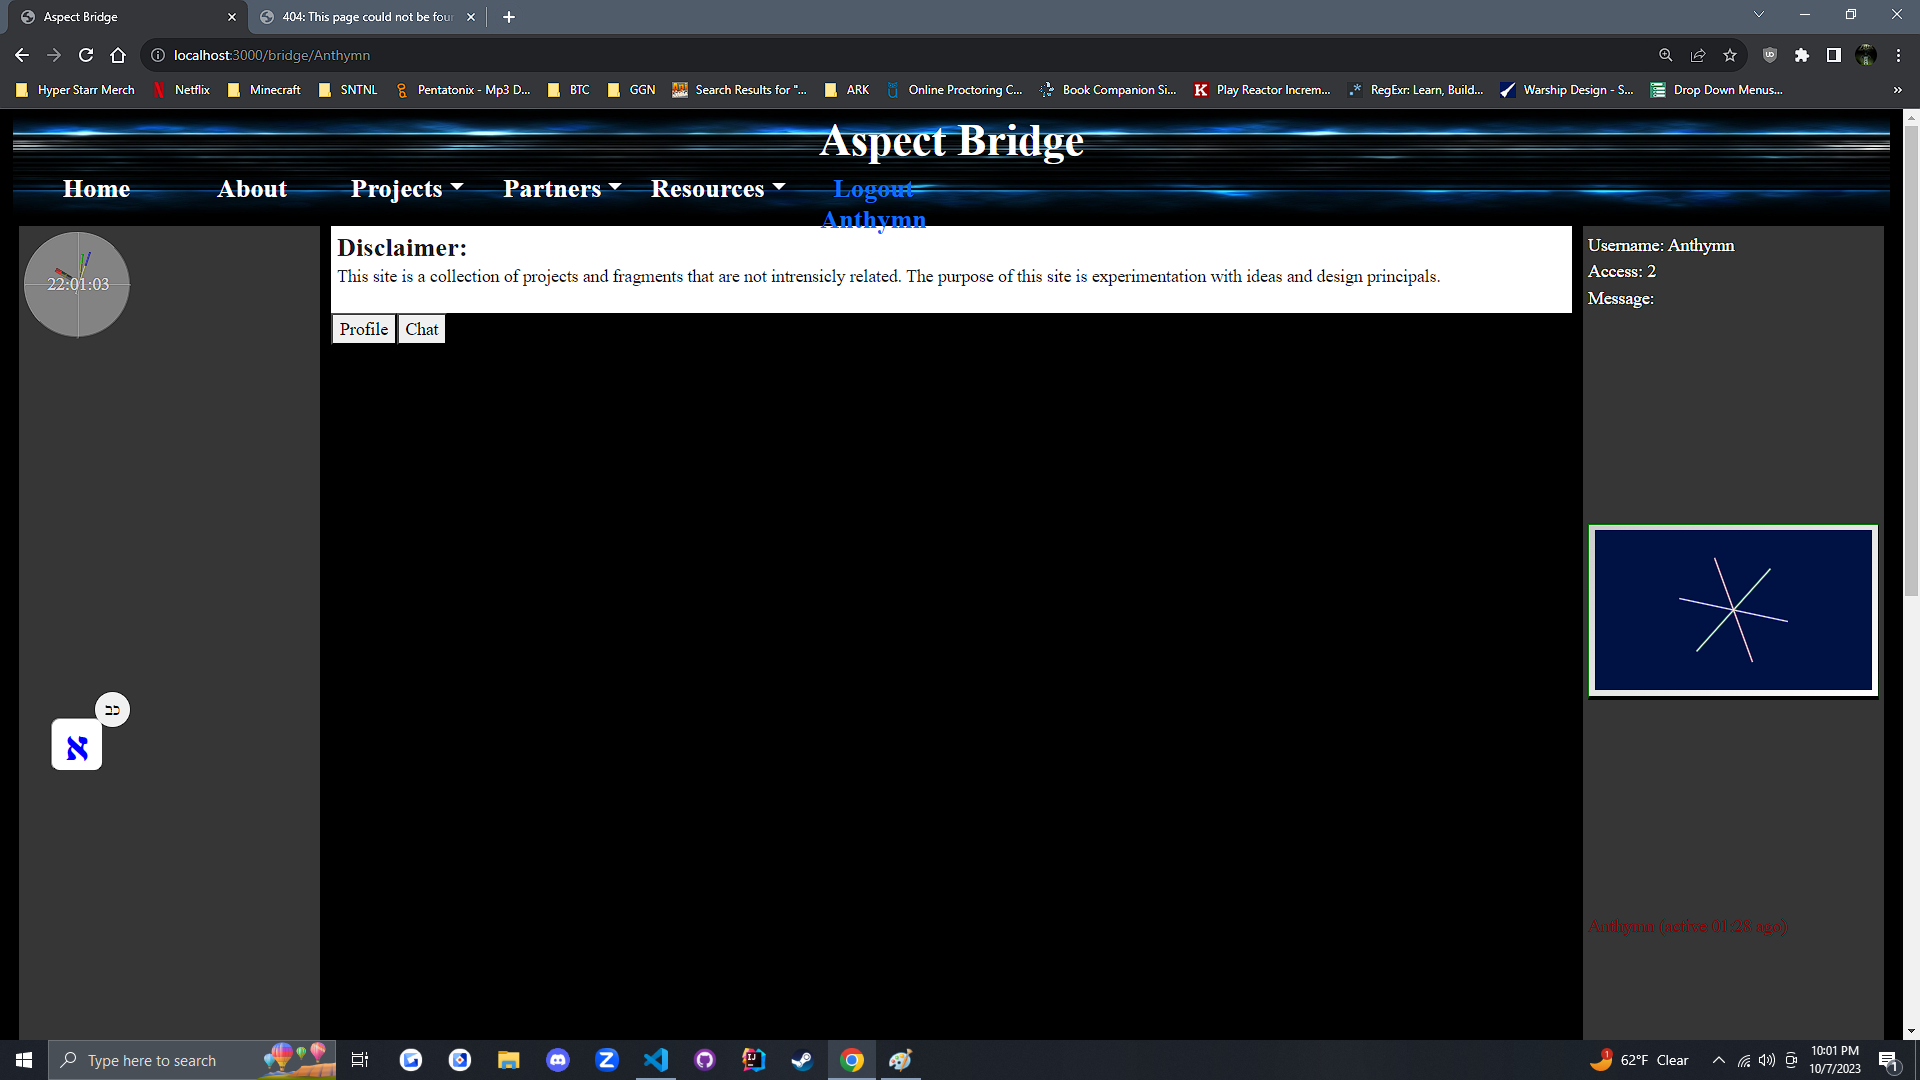
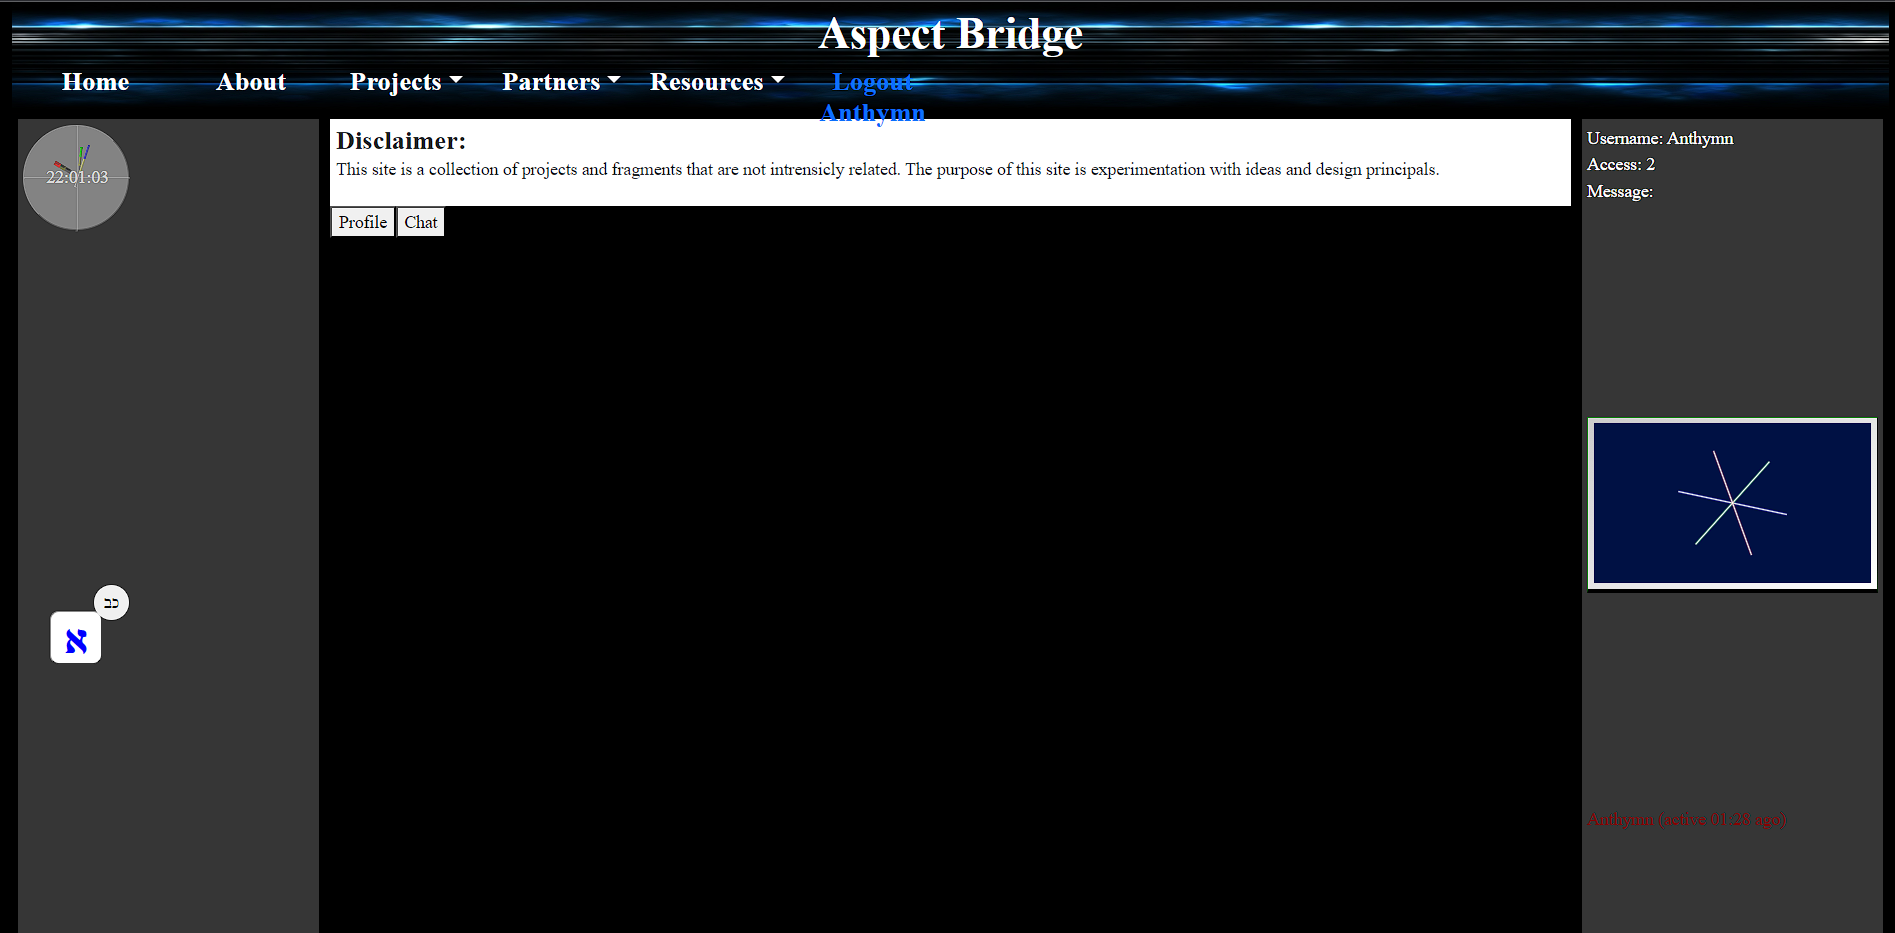
website cleanup

diff --git a/app/bridge/[...aspect]/page.tsx b/app/bridge/[...aspect]/page.tsx
@@ -7,6 +7,7 @@ import UserProfile from '../../../lib/util/-userprofile-';
 import useUser from '../../../lib/util/^user';
 import Chat from '../../chat/chat';
 import useActiveUsers from '../../../lib/util/^activeusers';
+import Link from 'next/link';
 
 interface pageProps{params: {aspect: string[]}, searchParams}
 
@@ -22,17 +23,19 @@ const page: FC<pageProps> = ({params, searchParams})=>{
 	const activeUsers = useActiveUsers(10000)
     const currentUsername = useMemo(()=>user?.username || 'guest',[user])
 
-    useEffect(() => { 
+    useEffect(() => { //too verbose imo
         if(!user) return
-        if(currentUsername != aspect[0]){
-          router.push(`/bridge/${currentUsername}${aspect.length>1?'/'+aspect[1]:''}${aspect.length>2?'/'+aspect[2]:''}`)
+        if(currentUsername != aspect[aspect.length-1]){
+            let as1 = aspect && aspect[0] != currentUsername ? aspect[0] : null
+            as1 = as1!='guest'?as1:null
+            let as2 = aspect?.length > 1 && aspect[1] != currentUsername ? aspect[1] : null
+            as2 = as2!='guest'?as2:null
+            let as3 = aspect?.length > 2 && aspect[2] != currentUsername ? aspect[2] : null
+            as3 = as3!='guest'?as3:null
+            router.replace(`/bridge/${as1?as1+'/':''}${as2?as2+'/':''}${as3?as3+'/':''}${currentUsername}`)
         }
     },[user])
-    return <>
-        {//<UserProfile />
-        }
-        <AspectBridge {...{user, activeUsers, aspect}}/>
-    </>
+    return <AspectBridge {...{user, activeUsers, aspect}}/>
 }
 export default page
 
@@ -45,6 +48,8 @@ function AspectBridge(props){
 	const {user, activeUsers, aspect} = props
     const [p, setP] = useState(false)
     const [c, setC] = useState(false)
+    const [g, setG] = useState(false)
+    const [f, setF] = useState(false)
     return <>
         <Row id={'disclaimer'} className={""}>
             <Col xs={12}style={{background: 'white'}}>
@@ -52,16 +57,81 @@ function AspectBridge(props){
                 <p>This site is a collection of projects and fragments that are not intrensicly related. The purpose of this site is experimentation with ideas and design principals.</p>
             </Col>
         </Row>
-        <button onClick={(e)=>setP((p)=>!p)}>Profile</button>
-        <Row id={'profile_editor'} style={{position: p?'relative':'absolute', visibility: p?'visible':'collapse'}}>
-            <Col xs={12}style={{background: 'white'}}>
+        <Row id={'profile_editor'}>
+            <Col xs={2}><button onClick={(e)=>setP((p)=>!p)}>Profile</button></Col>
+            <Col xs={10}></Col>
+            <Col xs={12}style={{background: 'white', position: p?'relative':'absolute', visibility: p?'visible':'collapse'}}>
                 <UserMenu user={user} homepage={'bridge'}/>
             </Col>
         </Row>
-        <button onClick={(e)=>setC((c)=>!c)}>Chat</button>
-        <Row id={'chat'} className={'justify-content-md-center'} style={{maxHeight: '50%', position: p?'relative':'absolute', visibility: c?'visible':'collapse'}}>
+        {aspect[0] == 'about' && <Row id={'about'} className={'justify-content-md-center'}>
+            <Col xs={12} style={{background: 'white'}}>
+                <h4>Aspect Bridge</h4>
+                <p>Aspect Bridge is a platform for experimentation with ideas and design principals.</p>
+                <p>Aspect Bridge is a collection of projects and fragments that are not intrensicly related.</p>
+                <p>Aspect Bridge is a place to explore the possibilities of the web.</p>
+            </Col>
+        </Row>}
+        <Row id={'games'}>
+            <Col xs={2}><button onClick={(e)=>setG((g)=>!g)}>Games</button></Col>
+            <Col xs={10}></Col>
+            <Col xs={12}style={{background: 'white', position: g?'relative':'absolute', visibility: g?'visible':'collapse'}}>
+                <Row>
+                    <Col xs={12} sm={12} md={6}>
+                        <h4>Cost: Idle Clicker</h4>
+                        <p>This project represents the backbone of any idle clicker game. It is a functional "incremental gain" simulator with prestige. This game could have essence if given a little art.</p>
+                        <Link href={'/projects/cost'}>Cost</Link><br/>
+                        <img src={'/assets/cost_game.png'} style={{width: '100%'}}/>
+                        <br/><br/>
+                    </Col>
+                    <Col xs={12} sm={12} md={6}>
+                        <h4>Verse: Gamified Forms Project</h4>
+                        <p>This project utilizes form management as a structural analog to game regions. All new form aspects can be integrated seamlessly into the state manager to expend game content.</p>
+                        <p>This project can also be utilized as a web page builder in future implementations.</p>
+                        <Link href={'/verse'}>Verse</Link><br/>
+                        <img src={'/assets/verse_game.png'} style={{width: '100%'}}/>
+                    </Col>
+                    <Col xs={12} sm={12} md={6}>
+                        <h4>Growth: initial farming sim concept</h4>
+                        <p>This project explores progress bars and grid based resource accumulator systems that can be integrated intoohr game platforms.</p>
+                        <p>The purpose of this side project is to explore the possibilities of scaleable process ittertion.</p>
+                        <Link href={'/growth'}>Growth</Link><br/>
+                        <img src={'/assets/growth_game.png'} style={{width: '100%'}}/>
+                    </Col>
+                </Row>
+            </Col>
+        </Row>
+        <Row id={'backend'}>
+            <Col xs={2}><button onClick={(e)=>setF((f)=>!f)}>Frameworks</button></Col>
+            <Col xs={10}></Col>
+            <Col xs={12}style={{background: 'white', position: f?'relative':'absolute', visibility: f?'visible':'collapse'}}>
+                <Row>
+                    <Col xs={12}>
+                        <h4>User Api:</h4>
+                        <p>User login is fully implemented accoss all aspectbridge web pages. Accessing user information from any page only requires a simple hook.</p>
+                        <code>
+                            {"const user = useUser()  //22 code lines incorporated"}<br/>
+                        </code>
+                    </Col>
+                    <Col xs={12}>
+                        <h4>Registry Api:</h4>
+                        <p>Registry is a proprietary data handling tool. It is siply a way to store state information to a database as a hash map.</p>
+                        <p>This is an example implementation. The page name is 'verse'</p>
+                        <code>
+                            {"const {state, dispatch} = useVerseContext()  //138 code lines incorporated"}<br/>
+                            {"const user = useUser()  //22 code lines incorporated"}<br/>
+                            {"const [saveLoad, loadSave,] = useUserSave('verse', user?.username, state, (data)=>dispatch({type: 'set', payload: data}))  //40 code lines incorporated"}<br/>
+                        </code>
+                    </Col>
+                </Row>
+            </Col> 
+        </Row>
+        <Row id={'chat'} className={'justify-content-md-center'} style={{maxHeight: '50%'}}>
+            <Col xs={2}><button onClick={(e)=>setC((c)=>!c)}>Chat</button></Col>
+            <Col xs={10}></Col>
             <Col xs={12} style={{
-                    backgroundImage: 'linear-gradient(to bottom, #777, #fff)' , maxHeight: '40vh'
+                    backgroundImage: 'linear-gradient(to bottom, #777, #fff)' , maxHeight: '40vh',
+                    position: c?'relative':'absolute', visibility: c?'visible':'collapse'
                 }}>
                 <Chat user={user} homepage={'bridge'} ip={null}/>
             </Col>

diff --git a/app/layout_header.tsx b/app/layout_header.tsx
@@ -20,78 +20,6 @@ export default function LayoutHeader({ user, root }: { user?: User, root?: strin
         <Navbar.Brand as={Nav.Link} href="https://aspectbridge.com/dashboard" id="brandaspect" >Aspect Bridge</Navbar.Brand>
         :<Navbar.Brand as={Nav.Link} href="/dashboard" id="brandaspect" disabled>Aspect Bridge</Navbar.Brand>
     }
-    function NavProjects({user}){
-        const [disabled, setDisabled] = useState(true)
-        const [selected, setSelected] = useState('')
-        useEffect(()=>{
-            if(user&&(user.access=='2'||user.access=='1')){
-                setDisabled(false)
-            }else{
-                setDisabled(true)
-            }
-        },[user])
-        const ifstyle = {
-            width: 250,
-            height: 200,
-            border: '1px solid black',
-            overflow: 'hidden',
-        }
-        const plinks = [
-            ['1','api'],
-            ['0','bridge'],
-            ['0','canvas'],
-            ['0','chat'],
-            ['0','cost'],
-            ['1','cost_dev'],
-            ['0','card'],
-            ['0','home'],
-            ['0','dragons'],
-            ['1','elements'],
-            ['1','fetchexamples'],
-            ['0','gather'],
-            ['0','growth'],
-            ['0','neuralnet'],
-            ['0','registry/all'],
-            ['0','sandbox'],
-            ['1','slidersCss'],
-            ['1','static'],
-            ['0','story'],
-            ['1','talents'],
-            ['0','toolbelt'],
-            ['0','tutorial'],
-            ['0','magic'],
-            ['0','projects'],
-            ['0', 'verse'],
-            ['1','wasd'],
-            ['1','xstate'],
-        ]
-        return <NavDropdown title="Projects" id="navbarProjectsDropdown" onClick={()=>setSelected('')}>
-                {
-                    /*plinks.map((link, i)=>{
-                        return <Nav.Link key={i} href={"/"+link[1]} disabled={link[0]=='1'?disabled:false} onMouseOver={()=>setSelected(link[1])}>{link[1]}{selected!=link[1]?null:<iframe style={ifstyle} src={"/"+link[1]}></iframe>}</Nav.Link>
-                    })*/
-                    plinks.map((link, i)=>{
-                        if(i%2==1){
-                            return <Row key={i} style={{width: '22vw'}}>
-                                <Col style={{border: '1px solid black'}}>
-                                    <Nav.Link key={i} href={"/"+plinks[i-1][1]} disabled={plinks[i-1][0]=='1'?disabled:false} onMouseOver={()=>setSelected(plinks[i-1][1])}>
-                                        {plinks[i-1][1]}{selected!=plinks[i-1][1]?null:<iframe style={ifstyle} src={"/"+plinks[i-1][1]}></iframe>}
-                                    </Nav.Link>
-                                </Col><Col style={{border: '1px solid black'}}>
-                                    <Nav.Link key={i} href={"/"+link[1]} disabled={link[0]=='1'?disabled:false} onMouseOver={()=>setSelected(link[1])}>
-                                        {link[1]}{selected!=link[1]?null:<iframe style={ifstyle} src={"/"+link[1]}></iframe>}
-                                    </Nav.Link>
-                                </Col>
-                            </Row>
-                        }return null
-                    })
-                }
-                <NavDropdown.Divider />
-                <label>Static Sites</label>
-                <Nav.Link href="/grid/index.html" disabled={disabled}>Grid{/*public static*/}</Nav.Link>
-                <Nav.Link href="/sandbox/wasd/index.html"  disabled={disabled}>Sandbox: wasd{/*public static*/}</Nav.Link>
-            </NavDropdown>
-    }
     function Search(){
         return <Form className="d-flex">
             <Form.Control
@@ -106,27 +34,6 @@ export default function LayoutHeader({ user, root }: { user?: User, root?: strin
     }
     
     return <NavMain/>
-    return (
-        <Navbar bg="" variant="dark" expand="lg" id="navaspect" style={{zIndex: '10'}}>
-            <Container fluid>
-                <NavBrand />
-                <Navbar.Toggle aria-controls="navbarScroll" />
-                <Navbar.Collapse id="navbarScroll">
-                    <Nav className="me-auto my-2 my-lg-0 grey-back">
-
-                        <Nav.Link href={"/"+root}>Home</Nav.Link>{' '}
-                        <Nav.Link href="/about">About</Nav.Link>{' '}
-                        <NavPartners />{' '}
-                        <NavProjects user={user}/>{' '}
-                        <NavResources />{' '}
-                        <UserLogin homepage={root} className={'nav-link'}/>
-                        <Search />
-
-                    </Nav>
-                </Navbar.Collapse>
-            </Container>
-        </Navbar>
-    );
 }
 
 function NavPartners(){
@@ -171,33 +78,30 @@ function NavMain(){
         overflow: 'hidden',
     }
     const plinks: [string, string, string][] = [
-        ['1','api','/assets/terraforge_bg.jpg'],
+        //['1','api','/assets/terraforge_bg.jpg'],
         ['0','bridge','/assets/AspectHome.png'],
-        ['0','canvas',''],
-        ['0','chat',''],
-        ['0','cost',''],
-        ['1','cost_dev',''],
-        ['0','card',''],
-        ['0','home',''],
-        ['0','dragons',''],
-        ['1','elements',''],
-        ['1','fetchexamples',''],
-        ['0','gather',''],
+        //['0','projects/canvas',''],
+        //['0','chat',''],
+        ['0','cost','/assets/cost_game.png'],
+        ['0','card','/assets/cards_game.png'],
+        ['0','dragons','/assets/dragons_game.png'],
+        //['1','element',''],
+        //['1','fetchexamples/example',''],
+        //['0','gather',''],
         ['0','growth',''],
         ['0','neuralnet',''],
-        ['0','registry/all',''],
+        //['0','registry/all',''],
         ['0','sandbox',''],
         ['1','slidersCss',''],
         ['1','static',''],
         ['0','story',''],
         ['1','talents',''],
         ['0','toolbelt',''],
-        ['0','tutorial',''],
-        ['0','magic',''],
+        //['0','tutorial',''],
         ['0','projects',''],
-        ['0', 'verse',''],
+        ['0','verse','/assets/verse_game.png'],
         ['1','wasd',''],
-        ['1','xstate',''],
+        //['1','xstate',''],
     ]
     return <NavRow>
             <h4><Nav.Link href={'/bridge'}>Home</Nav.Link></h4>

diff --git a/pages/growth/index.tsx b/pages/growth/index.tsx
@@ -95,14 +95,9 @@ export default function Growth(props){
                         if(i==loc[0]&&j==loc[1]&&b.planted==false){
                             switch(action.payload.resource){
                                 case 'aleph':
-                                    if(resource.nun<7){
-                                        alert('You need 7 nun to attract an aleph!')
-                                        return b
-                                    }else{
                                         setResource((f)=>{return {...f, nun: f.nun-7}})
                                         //console.log('planted')
                                         return {...b, ...crop}
-                                    }
                                 case 'beth':
                                     if(resource.aleph<7 || resource.nun<7*7){
                                         alert('You need 7 aleph and 7*7 nun to build a beth!')
@@ -113,7 +108,7 @@ export default function Growth(props){
                                         return {...b, ...crop}
                                     }
                                 case 'nun':
-                                    if(resource.nun<alephbeth['nun'].order){
+                                    if(resource.aleph<alephbeth['nun'].order){
                                         alert('You need '+alephbeth['nun'].order+' nun to plant nun!')
                                         return b
                                     }else{

diff --git a/app/layout.tsx b/app/layout.tsx
@@ -24,7 +24,7 @@ export default async function RootLayout({children}: {children: React.ReactNode}
         <div id='header' className='row well-sm tcenter logo' style={{height: '12%'}}>
           <div className='col-2 tcenter navy_back title' style={{height: '100%'}}>
             <a href={'/bridge'}>
-              <img src={'https://stsci-opo.org/STScI-01GS6A1YR1W0CXGTPG0VX1FTZA.png'} width={'100%'} style={{margin: '-20px', borderRadius: '50%'}}/>
+              <img src={'https://stsci-opo.org/STScI-01GS6A1YR1W0CXGTPG0VX1FTZA.png'} height={'100%'} style={{borderRadius: '50%'}}/>
             </a>
           </div>
           <div className='col-10 tcenter navy_back title' style={{height: '100%'}}>

diff --git a/app/bridge/page.tsx b/app/bridge/page.tsx
@@ -5,7 +5,7 @@ import { useRouter } from 'next/navigation';
 export default function Main({params}) {
     //ROOT INACCESSIBLE: REDIRECT IMENENT
     const router = useRouter();
-    useEffect(() => { router.push('/bridge/'+(params.name || 'guest')) },[]);
+    useEffect(() => { router.push('/bridge/'+(params.aspect?params.aspect+'/':'')+(params.name || 'guest')) },[]);
     return <div>Bridge Loading...</div>
 }
 
